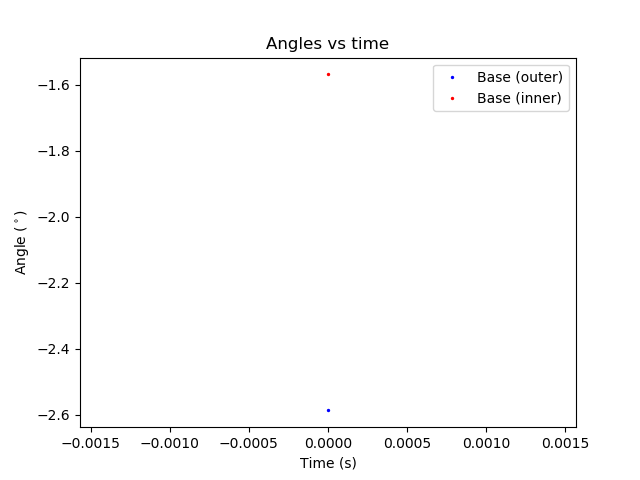
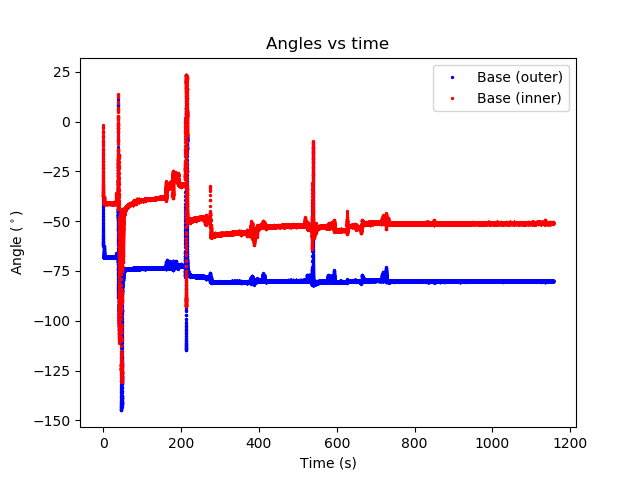
Interpolate NaNs in array when doing analyses
If we do not replace the NaNs, then they will mess up the flow (e.g. plots won't be made past the time of the first NaN).

Right now, linear interpolation is used to find reasonable guesses for the missing data. Seems to work fine, but further investigation should be undertaken.

diff --git a/pc/analyze.py b/pc/analyze.py
@@ -67,6 +67,23 @@ class cFilt:
         '''
         return self.__theta_p, self.__theta_r
 
+# https://stackoverflow.com/questions/6518811/interpolate-nan-values-in-a-numpy-array
+def nan_helper(y):
+    """Helper to handle indices and logical indices of NaNs.
+
+    Input:
+        - y, 1d numpy array with possible NaNs
+    Output:
+        - nans, logical indices of NaNs
+        - index, a function, with signature indices= index(logical_indices),
+          to convert logical indices of NaNs to 'equivalent' indices
+    Example:
+        >>> # linear interpolation of NaNs
+        >>> nans, x= nan_helper(y)
+        >>> y[nans]= np.interp(x(nans), x(~nans), y[~nans])
+    """
+
+    return np.isnan(y), lambda z: z.nonzero()[0]
 
 def analyze(fname, imu_to_plot, estimate):
     make_data_dir()
@@ -123,6 +140,9 @@ def analyze(fname, imu_to_plot, estimate):
         logString("Saved fig to {0}".format(fig_name))
         plt.close();
     else:
+        # TODO: (Tyler) Only do both base and lamp if arg == "both" (i.e. 
+        # TODO:         optimize cases where analyzing individual IMUs)
+        
         # tau = alpha*dt/(1-alpha)
         # so alpha = tau/(tau + dt)
         # Swing period is about 0.51. Use tau = 0.255
@@ -130,6 +150,18 @@ def analyze(fname, imu_to_plot, estimate):
         alpha_r = 0.96226415094
         base_filt = cFilt(alpha_p, alpha_r)
         lamp_filt = cFilt(alpha_p, alpha_r)
+        
+        # TODO: (Tyler) Move this to util
+        # Interpolate NaN, if needed
+        num_base_nans = np.isnan(imu_data[IMU_BASE_IDX,:]).sum()
+        num_lamp_nans = np.isnan(imu_data[IMU_LAMP_IDX,:]).sum()
+        if num_base_nans + num_lamp_nans > 0:
+            logString("Interpolating NaNs (Base: {0}|Lamp: {1})".format(
+                num_base_nans,num_lamp_nans)
+            )
+            for i in range(imu_data.shape[0]):
+                nans, idx = nan_helper(imu_data[i,:])
+                imu_data[i,nans]= np.interp(idx(nans), idx(~nans), imu_data[i,~nans])
         
         OUTER = 0
         INNER = 1

diff --git a/pc/util.py b/pc/util.py
@@ -166,7 +166,7 @@ def load_data_from_file(file_name):
         cur_line, cur_ind = too_small.pop(0)
     while len(too_small) > 0:
         line, ind = too_small.pop(0)
-        if bin_data[cur_ind] < LOGGED_BUF_SIZE:
+        if len(bin_data[cur_ind]) < LOGGED_BUF_SIZE:
             bin_data[cur_ind] = bin_data[cur_ind] + line
         else:
             cur_ind = ind
